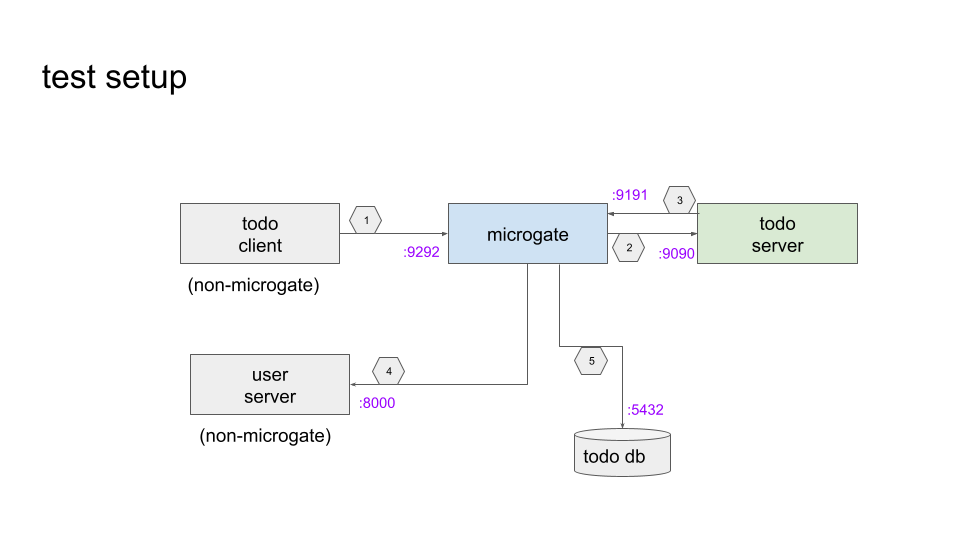
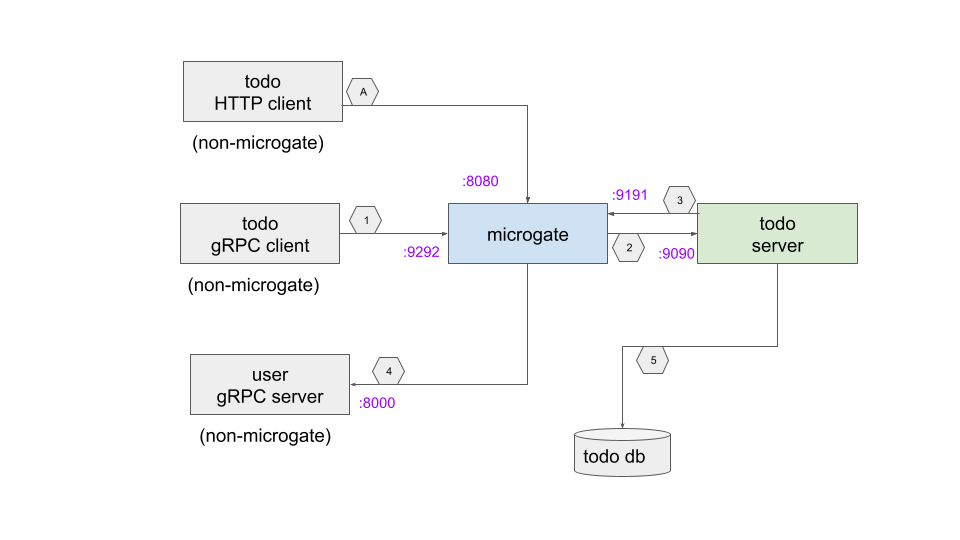
rm db

diff --git a/todo/server/main.go b/todo/server/main.go
@@ -8,7 +8,6 @@ import (
 	"github.com/microgate-io/microgate-demo/user"
 	v1 "github.com/microgate-io/microgate-lib-go/v1"
 	apiconfig "github.com/microgate-io/microgate-lib-go/v1/config"
-	apidb "github.com/microgate-io/microgate-lib-go/v1/db"
 	apilog "github.com/microgate-io/microgate-lib-go/v1/log"
 	apiqueue "github.com/microgate-io/microgate-lib-go/v1/queue"
 	"google.golang.org/grpc"
@@ -56,7 +55,6 @@ func main() {
 // create a new Todo service and register it to the server.
 func registerTodo(s *grpc.Server, conn *grpc.ClientConn, config *apiconfig.Configuration) {
 	todoService := &TodoImpl{
-		dbClient:    apidb.NewDatabaseServiceClient(conn),
 		userClient:  user.NewUserServiceClient(conn),
 		queueClient: apiqueue.NewQueueingServiceClient(conn),
 	}

diff --git a/todo/server/service.go b/todo/server/service.go
@@ -7,7 +7,6 @@ import (
 
 	"github.com/microgate-io/microgate-demo/todo"
 	"github.com/microgate-io/microgate-demo/user"
-	apidb "github.com/microgate-io/microgate-lib-go/v1/db"
 	apilog "github.com/microgate-io/microgate-lib-go/v1/log"
 	apiqueue "github.com/microgate-io/microgate-lib-go/v1/queue"
 )
@@ -17,9 +16,6 @@ type TodoImpl struct {
 
 	// this is for calling a remote UserService
 	userClient user.UserServiceClient
-
-	// this is for calling a local Microgate DatabaseService
-	dbClient apidb.DatabaseServiceClient
 
 	// this is for notifying asynchronously about a Todo created
 	queueClient apiqueue.QueueingServiceClient
